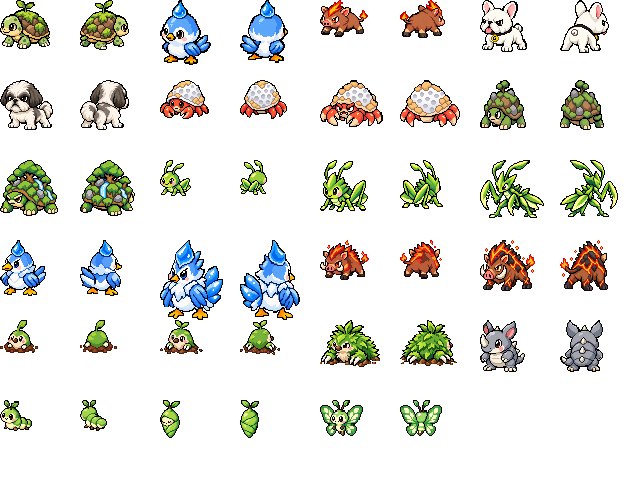
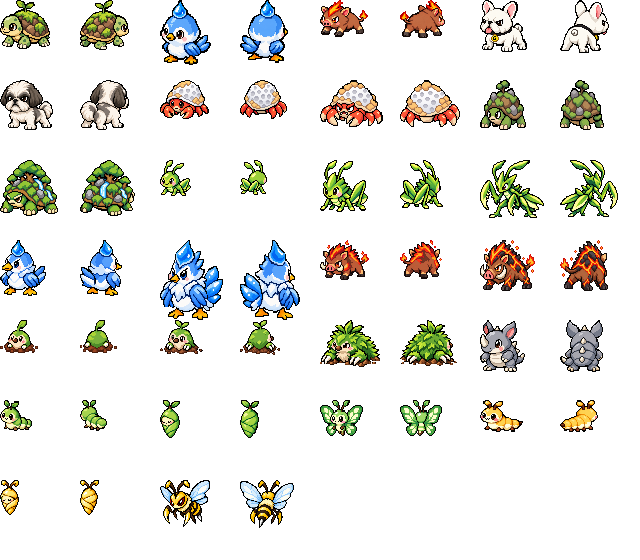
キノムシ・キノミノ・ハニーバルを新規追加（No.151〜153、Lv7/Lv10で進化）、ガーデンロードの野生にキノムシ
Claude-Session: https://claude.ai/code/session_018VDSYCPciSbMvR8kKaJDnr

diff --git a/js/dex.js b/js/dex.js
@@ -5,7 +5,7 @@
 // ============================================================
 // 使用するモンスター。null にすると図鑑の全員が使われる。
 //   （2026-09-28：御三家以外はいったん外す。新しいドット絵ができた個体から追加していく）
-const DEX_ENABLED = ['kokegame', 'morigame', 'nushigame', 'hinoshishi', 'shishiburn', 'shishivolke', 'amepiyo', 'amegamo', 'doshagamo', 'bubu', 'mantou', 'bankani', 'oobankani', 'shibatta', 'rafubatta', 'shigebatta', 'kokemogu', 'rafumoggu', 'mogujuou', 'nidomu', 'nyakimi', 'nyakimino', 'nyakiageha'];
+const DEX_ENABLED = ['kokegame', 'morigame', 'nushigame', 'hinoshishi', 'shishiburn', 'shishivolke', 'amepiyo', 'amegamo', 'doshagamo', 'bubu', 'mantou', 'bankani', 'oobankani', 'shibatta', 'rafubatta', 'shigebatta', 'kokemogu', 'rafumoggu', 'mogujuou', 'nidomu', 'nyakimi', 'nyakimino', 'nyakiageha', 'kinomushi', 'kinomino', 'honeybal'];
 
 const DEX = [
   // ---- 御三家 ----
@@ -175,6 +175,9 @@ const DEX = [
   { no: 148, id: 'nyakimi',    name: 'ニャキミ',     type: 'くさ', stage: 1, evo: ['nyakimino', 7] },
   { no: 149, id: 'nyakimino',  name: 'ニャキミノ',   type: 'くさ', stage: 2, evo: ['nyakiageha', 10] },
   { no: 150, id: 'nyakiageha', name: 'ニャキアゲハ', type: 'くさ', stage: 3 },
+  { no: 151, id: 'kinomushi',  name: 'キノムシ',     type: 'くさ', stage: 1, evo: ['kinomino', 7] },
+  { no: 152, id: 'kinomino',   name: 'キノミノ',     type: 'くさ', stage: 2, evo: ['honeybal', 10] },
+  { no: 153, id: 'honeybal',   name: 'ハニーバル',   type: 'くさ', stage: 3 },
 ];
 
 // タイプ相性（攻撃側→防御側）。未定義は1倍。

diff --git a/js/data.js b/js/data.js
@@ -219,7 +219,7 @@ const DATA = {
         'WWWWWWWPWWWWWW',
       ],
       encounters: [
-        { id: 'shibatta', level: [3, 5], weight: 4 }, { id: 'kokemogu', level: [3, 5], weight: 4 }, { id: 'nyakimi', level: [2, 4], weight: 4 }, { id: 'bankani', level: [3, 5], weight: 3 },
+        { id: 'shibatta', level: [3, 5], weight: 4 }, { id: 'kokemogu', level: [3, 5], weight: 4 }, { id: 'nyakimi', level: [2, 4], weight: 3 }, { id: 'kinomushi', level: [2, 4], weight: 3 }, { id: 'bankani', level: [3, 5], weight: 3 },
       ],
       events: [
         { x: 7, y: 21, kind: 'warp', to: { map: 'town', x: 9, y: 1, dir: 'down' } },
